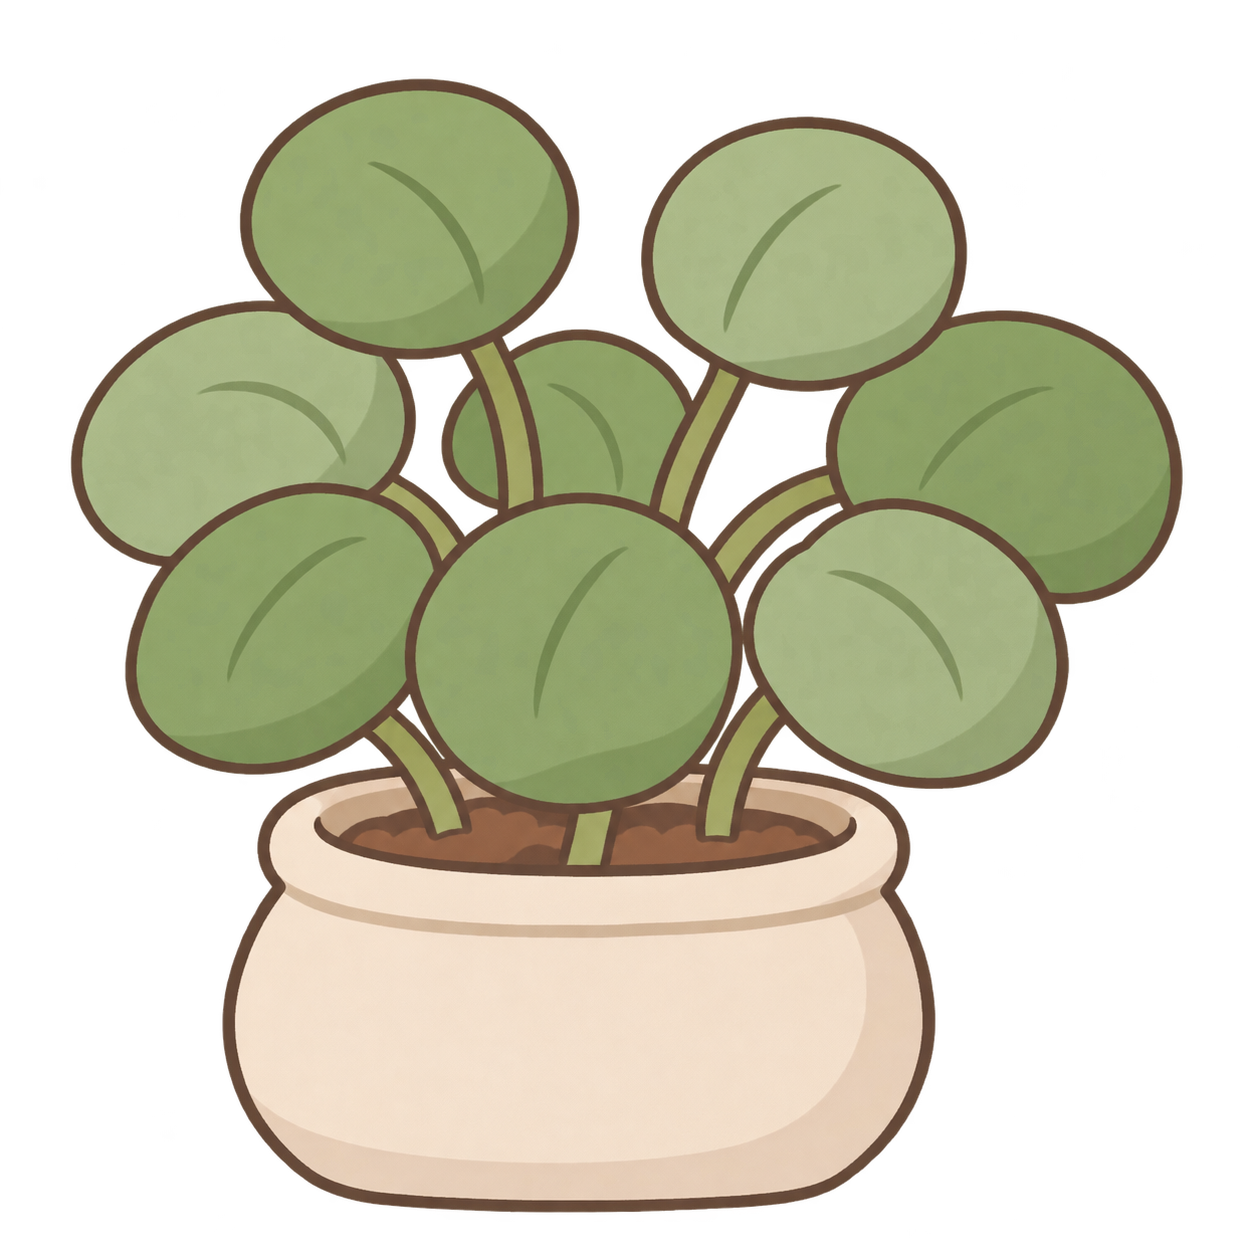
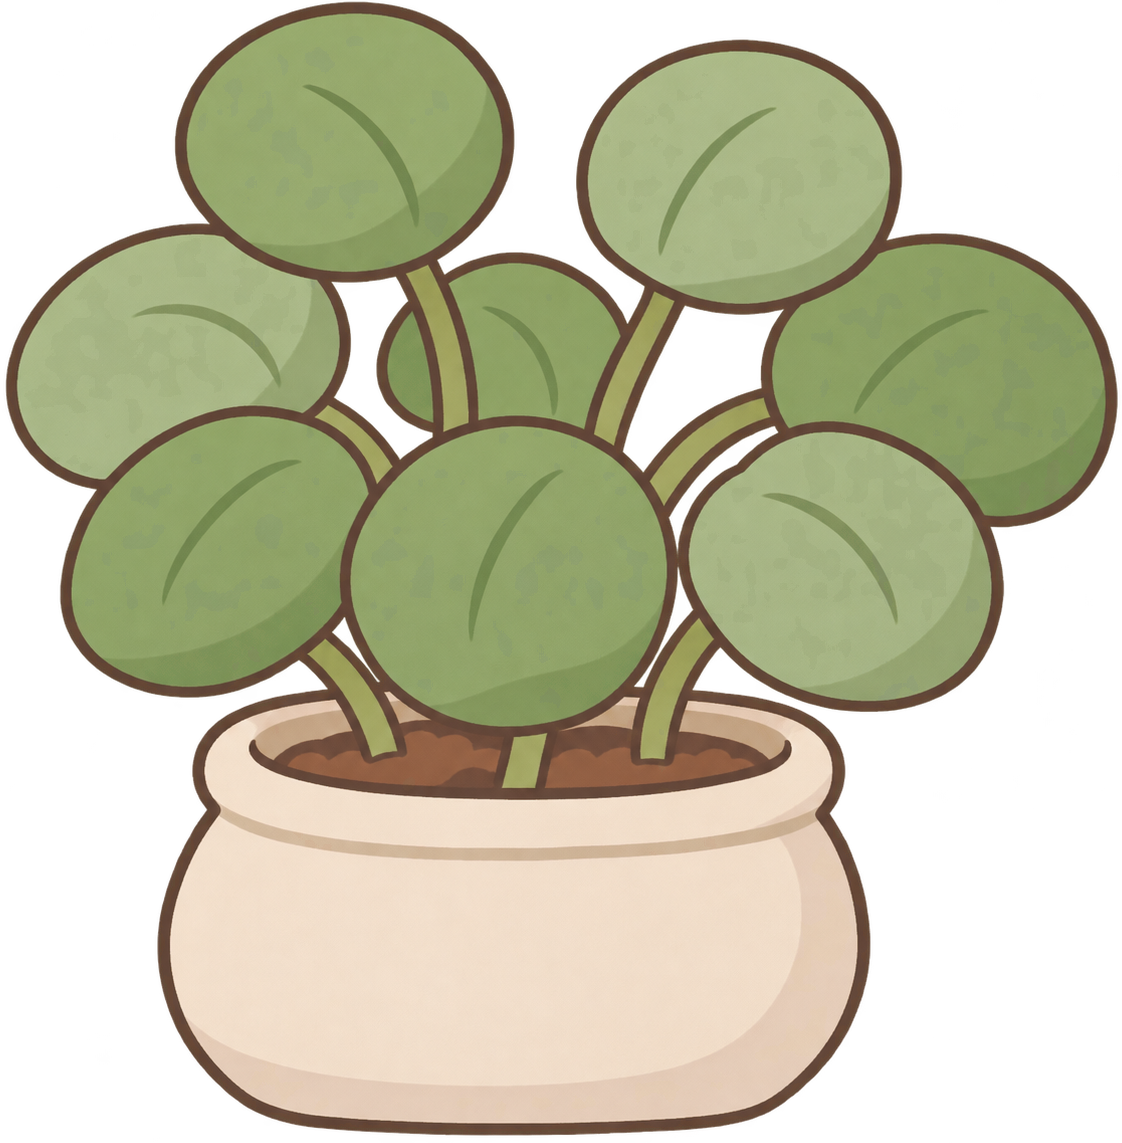
家具の追加

Changed region(s): [[0.0, 0.0, 0.9982, 1.0], [0.7799, 0.3062, 0.8111, 0.3368]]

diff --git a/frontend/src/pages/home/roomItems.js b/frontend/src/pages/home/roomItems.js
@@ -24,6 +24,7 @@ export const roomItems = {
     {
       id: 'concrete',
       name: 'コンクリート',
+      showBaseboard: false,
       variants: [
         { name: 'ベーシック', image: '/room/wall/concrete.png' },
       ],
@@ -43,7 +44,24 @@ export const roomItems = {
         { name: '白いレンガ', image: '/room/wall/brick-white.png' },
       ],
     },
+    {
+      id: 'mountain',
+      name: '山の背景',
+      showBaseboard: false,
+      variants: [
+        { name: '山の背景', image: '/room/wall/mountain.png' },
+      ],
+    },
+    {
+      id: 'yakei',
+      name: 'ビルの夜景',
+      showBaseboard: false,
+      variants: [
+        { name: 'ビルの夜景', image: '/room/wall/yakei.png' },
+      ],
+    },
   ],
+
   floor: [
     {
       id: 'wood',
@@ -62,14 +80,28 @@ export const roomItems = {
         { name: 'ベーシック', image: '/room/floor/tatami.png' },
       ],
     },
-    // {
-    //   id: 'marble',
-    //   name: '大理石',
-    //   variants: [
-    //     { name: 'ホワイト', image: '/room/floor/marble-white.png' },
-    //     { name: 'ブラック', image: '/room/floor/marble-black.png' },
-    //   ],
-    // },
+    {
+      id: 'marble',
+      name: '大理石',
+      variants: [
+        { name: 'ホワイト', image: '/room/floor/marble-white.png' },
+        { name: 'ブラック', image: '/room/floor/marble-black.png' },
+      ],
+    },
+    {
+      id: 'grass',
+      name: '芝生',
+      variants: [
+        { name: '芝生', image: '/room/floor/grass.png' },
+      ],
+    },
+    {
+      id: 'herringbone_wood',
+      name: 'ヘリンボーンの木床',
+      variants: [
+        { name: 'ヘリンボーンの木床', image: '/room/floor/herringbone_wood-natural.png' },
+      ],
+    },
   ],
 
   /* 家具 */
@@ -80,6 +112,7 @@ export const roomItems = {
       placement: 'floor',
       displayWidth: 'min(85%, 260px)',
       stackSurface: 'seat',
+      stackOn: ['rug'],
       variants: [
         { name: 'クリーム', image: '/room/chair/sofa-cream.png' },
       ],
@@ -91,8 +124,22 @@ export const roomItems = {
       displayWidth: 'min(85%, 260px)',
       stackSurface: 'seat',
       stackArea: { left: 0.15, right: 0.85, top: 0.55, bottom: 0.63 },
+      stackOn: ['rug'],
       variants: [
         { name: 'グリーン', image: '/room/chair/sofa2-green.png' },
+      ],
+    },
+
+    {
+      id: 'chair-blue',
+      name: '青い椅子',
+      placement: 'floor',
+      displayWidth: 'min(25%, 260px)',
+      stackSurface: 'seat',
+      stackArea: { left: 0.15, right: 0.85, top: 0.55, bottom: 0.63 },
+      stackOn: ['rug'],
+      variants: [
+        { name: 'グリーン', image: '/room/chair/chair-blue.png' },
       ],
     },
   ],
@@ -102,6 +149,7 @@ export const roomItems = {
       name: 'シンプルなクローゼット',
       placement: 'floor',
       displayWidth: 'min(45%, 240px)',
+      stackOn: ['rug'],
       variants: [
         { name: 'ベーシック', image: '/room/closet/closet1.png' },
       ],
@@ -113,11 +161,125 @@ export const roomItems = {
       name: '植物',
       placement: 'floor',
       displayWidth: 'min(20%, 240px)',
-      stackOn: ['seat'],
+      stackOn: ['seat', 'tabletop', 'rug'],
       variants: [
         { name: 'A', image: '/room/plant/plant1.png' },
         { name: 'B', image: '/room/plant/plant2.png' },
         { name: 'C', image: '/room/plant/plant3.png' },
+      ],
+    },
+  ],
+
+  rug: [
+    {
+      id: 'rug',
+      name: '敷物',
+      placement: {minY: 0, maxY: 27,},
+      displayWidth: 'min(60%, 240px)',
+      stackSurface: 'rug',
+      stackArea: { left: 0.0, right: 1.0, top: 0.0, bottom: 1.0 },
+      variants: [
+        { name: '丸いラグ', image: '/room/rug/rug1.png' },
+        { name: '四角いラグ', image: '/room/rug/rug2.png' },
+        { name: '曇のラグ', image: '/room/rug/rug3.png' },
+      ],
+    },
+  ],
+
+  table: [
+    {
+      id: 'side_table',
+      name: 'サイドテーブル',
+      displayWidth: 'min(20%, 240px)',
+      stackSurface: 'tabletop',
+      stackArea: { left: 0.3, right: 0.8, top: 0.15, bottom: 0.27 },
+      placement: {minY: 0, maxY: 27,},
+      variants: [
+        { name: '丸いサイドテーブル', image: '/room/table/side_table.png' },
+      ],
+    },
+    {
+      id: 'square_side_table',
+      name: '四角いサイドテーブル',
+      displayWidth: 'min(20%, 240px)',
+      stackSurface: 'tabletop',
+      stackArea: { left: 0.3, right: 0.8, top: 0.15, bottom: 0.27 },
+      placement: {minY: 0, maxY: 27,},
+      variants: [
+        { name: '四角いサイドテーブル', image: '/room/table/square_side_table.png' },
+      ],
+    },
+  ],
+
+  ornament: [
+    {
+      id: 'christmas_tree',
+      name: 'クリスマスツリー',
+      placement: {minY: 23, maxY: 27,},
+      displayWidth: 'min(50%, 240px)',
+      variants: [
+        { name: 'A', image: '/room/ornament/christmas_tree.png' },
+      ],
+    },
+    {
+      id: 'fireplace',
+      name: '暖炉',
+      placement: {minY: 25, maxY: 27,},
+      displayWidth: 'min(70%, 240px)',
+      stackSurface: 'tabletop',
+      stackArea: { left: 0.1, right: 0.9, top: 0.08, bottom: 0.13 },
+      variants: [
+        { name: 'A', image: '/room/ornament/fireplace.png' },
+      ],
+    },
+    {
+      id: 'gift_box',
+      name: 'プレゼント',
+      placement: {minY: 1, maxY: 27,},
+      displayWidth: 'min(30%, 240px)',
+      stackOn: ['rug'],
+      variants: [
+        { name: 'A', image: '/room/ornament/gift_box1.png' },
+        { name: 'B', image: '/room/ornament/gift_box2.png' },
+        { name: 'C', image: '/room/ornament/gift_box3.png' },
+      ],
+    },
+    {
+      id: 'christmas_stockings',
+      name: 'クリスマスの靴下',
+      placement: {minY: 30, maxY: 100,},
+      displayWidth: 'min(15%, 240px)',
+      variants: [
+        { name: 'A', image: '/room/ornament/christmas_stockings.png' },
+      ],
+    },
+    {
+      id: 'christmas_wreath',
+      name: 'クリスマスのリース',
+      placement: {minY: 30, maxY: 100,},
+      displayWidth: 'min(20%, 240px)',
+      variants: [
+        { name: 'A', image: '/room/ornament/christmas_wreath.png' },
+      ],
+    },
+    {
+      id: 'snow_globe',
+      name: ' スノードーム',
+      placement: {minY: 1, maxY: 27,},
+      displayWidth: 'min(10%, 240px)',
+      stackOn: ['seat', 'tabletop', 'rug'],
+      variants: [
+        { name: 'A', image: '/room/ornament/snow_globe.png' },
+      ],
+    },
+    {
+      id: 'pc',
+      name: ' ゲーミングPC',
+      placement: {minY: 1, maxY: 27,},
+      displayWidth: 'min(100%, 240px)',
+      stackOn: ['rug'],
+      variants: [
+        { name: 'A', image: '/room/ornament/pc.png' },
       ],
     },
   ],

diff --git a/frontend/src/pages/home/FurniturePlacementPage.jsx b/frontend/src/pages/home/FurniturePlacementPage.jsx
@@ -80,13 +80,33 @@ export default function FurniturePlacementPage({ wallImage, floorImage, onPlaceF
             })
 
             if (overlapping.length === 0) {
-                const onFloor =
-                    furniture.placement === 'floor' &&
-                    floorBounds !== null &&
-                    position.y >= floorBounds.top &&
-                    position.y <= floorBounds.bottom
+                const placement = furniture.placement
 
-                return onFloor ? { supportPlacementId: null } : null
+                // 以前保存した placement: 'floor' にも対応する
+                if (placement === 'floor') {
+                    const withinFloor =
+                        floorBounds !== null &&
+                        position.y >= floorBounds.top &&
+                        position.y <= floorBounds.bottom
+
+                    return withinFloor
+                        ? { supportPlacementId: null }
+                        : null
+                }
+
+                const minY = placement?.minY ?? 0
+                const maxY = placement?.maxY ?? 100
+
+                // 家具画像の下辺を、部屋の下から測った位置に変換する
+                const heightFromBottom = 100 - position.y
+
+                const withinRange =
+                    heightFromBottom >= minY &&
+                    heightFromBottom <= maxY
+
+                return withinRange
+                    ? { supportPlacementId: null }
+                    : null
             }
 
         // 重なってよいのは、座面として使う家具1つだけ

diff --git a/frontend/src/App.jsx b/frontend/src/App.jsx
@@ -119,12 +119,11 @@ export default function App() {
   /* 床の初期値 */
   const [floorImage, setFloorImage] = useSavedRoomImage(
     furnitureKey ? `${furnitureKey}:floor` : null,
-    '/room/floor/wood-floor.png'
+    '/room/floor/log-natural.png'
   )
 
   const [roomImageDraft, setRoomImageDraft] = useState(null)
-  const pendingRoomImages =
-    roomImageDraft?.key === furnitureKey ? roomImageDraft : null
+  const pendingRoomImages = roomImageDraft?.key === furnitureKey ? roomImageDraft : null
 
   const editingWallImage = pendingRoomImages?.wallImage ?? wallImage
   const editingFloorImage = pendingRoomImages?.floorImage ?? floorImage
@@ -184,8 +183,6 @@ export default function App() {
       setRoomImageDraft(null)
     }
   }, [location.pathname])
-
-
 
   // ログインしたユーザーの配置を復元する
   useEffect(() => {

diff --git a/frontend/src/pages/home/HomeCustomizePage.jsx b/frontend/src/pages/home/HomeCustomizePage.jsx
@@ -20,7 +20,7 @@ const categoryGroups = [
       { id: 'chair', label: '椅子' },
       { id: 'closet', label: 'クローゼット' },
       { id: 'plant', label: '植物' },
-      { id: 'desk', label: '机' },
+      { id: 'table', label: 'テーブル' },
       { id: 'hang', label: '壁飾り' },
       { id: 'rug', label: '敷物' },
       { id: 'chest', label: 'タンス' },

diff --git a/frontend/src/pages/home/HomePage.module.css b/frontend/src/pages/home/HomePage.module.css
@@ -895,3 +895,23 @@
   background: transparent;
   cursor: pointer;
 }
+
+.room {
+  --floor-height: 30%;
+}
+
+.wall {
+  position: absolute;
+  top: 0;
+  right: 0;
+  bottom: var(--floor-height);
+  left: 0;
+  height: auto;
+  background-position: center bottom;
+}
+
+.floor {
+  top: auto;
+  bottom: 0;
+  height: var(--floor-height);
+}
